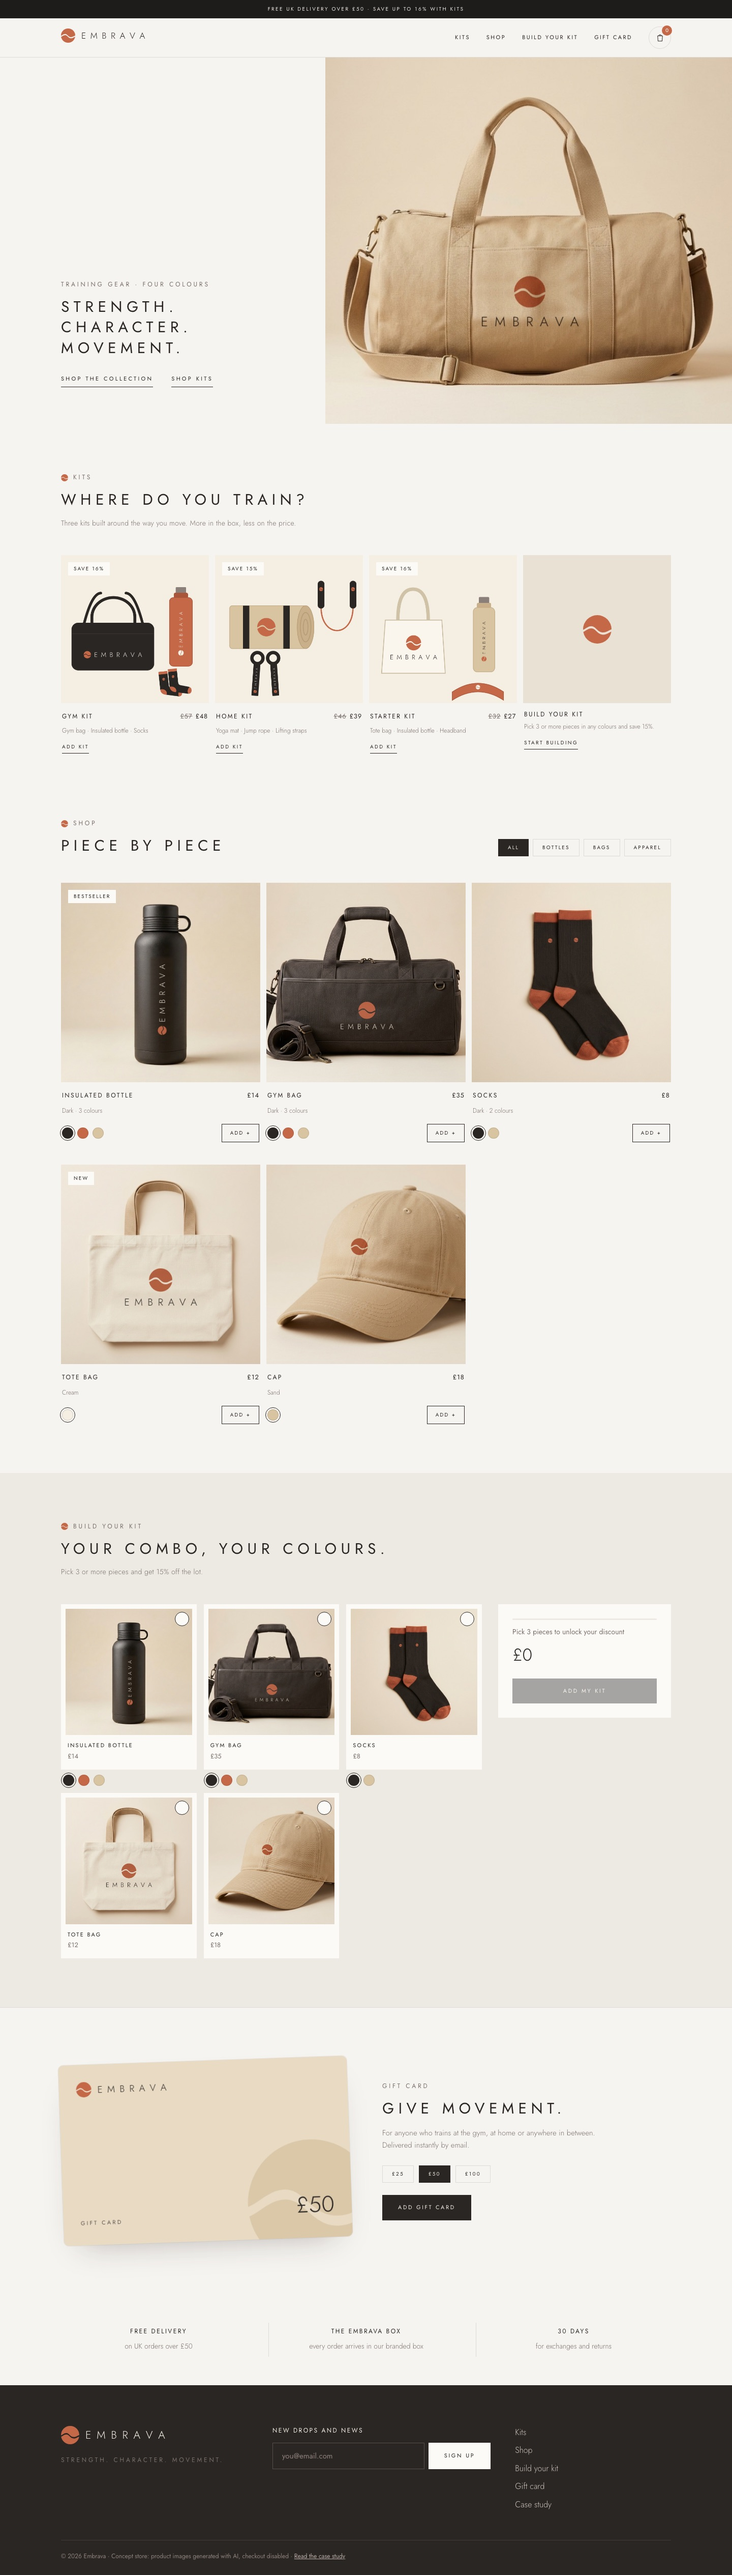
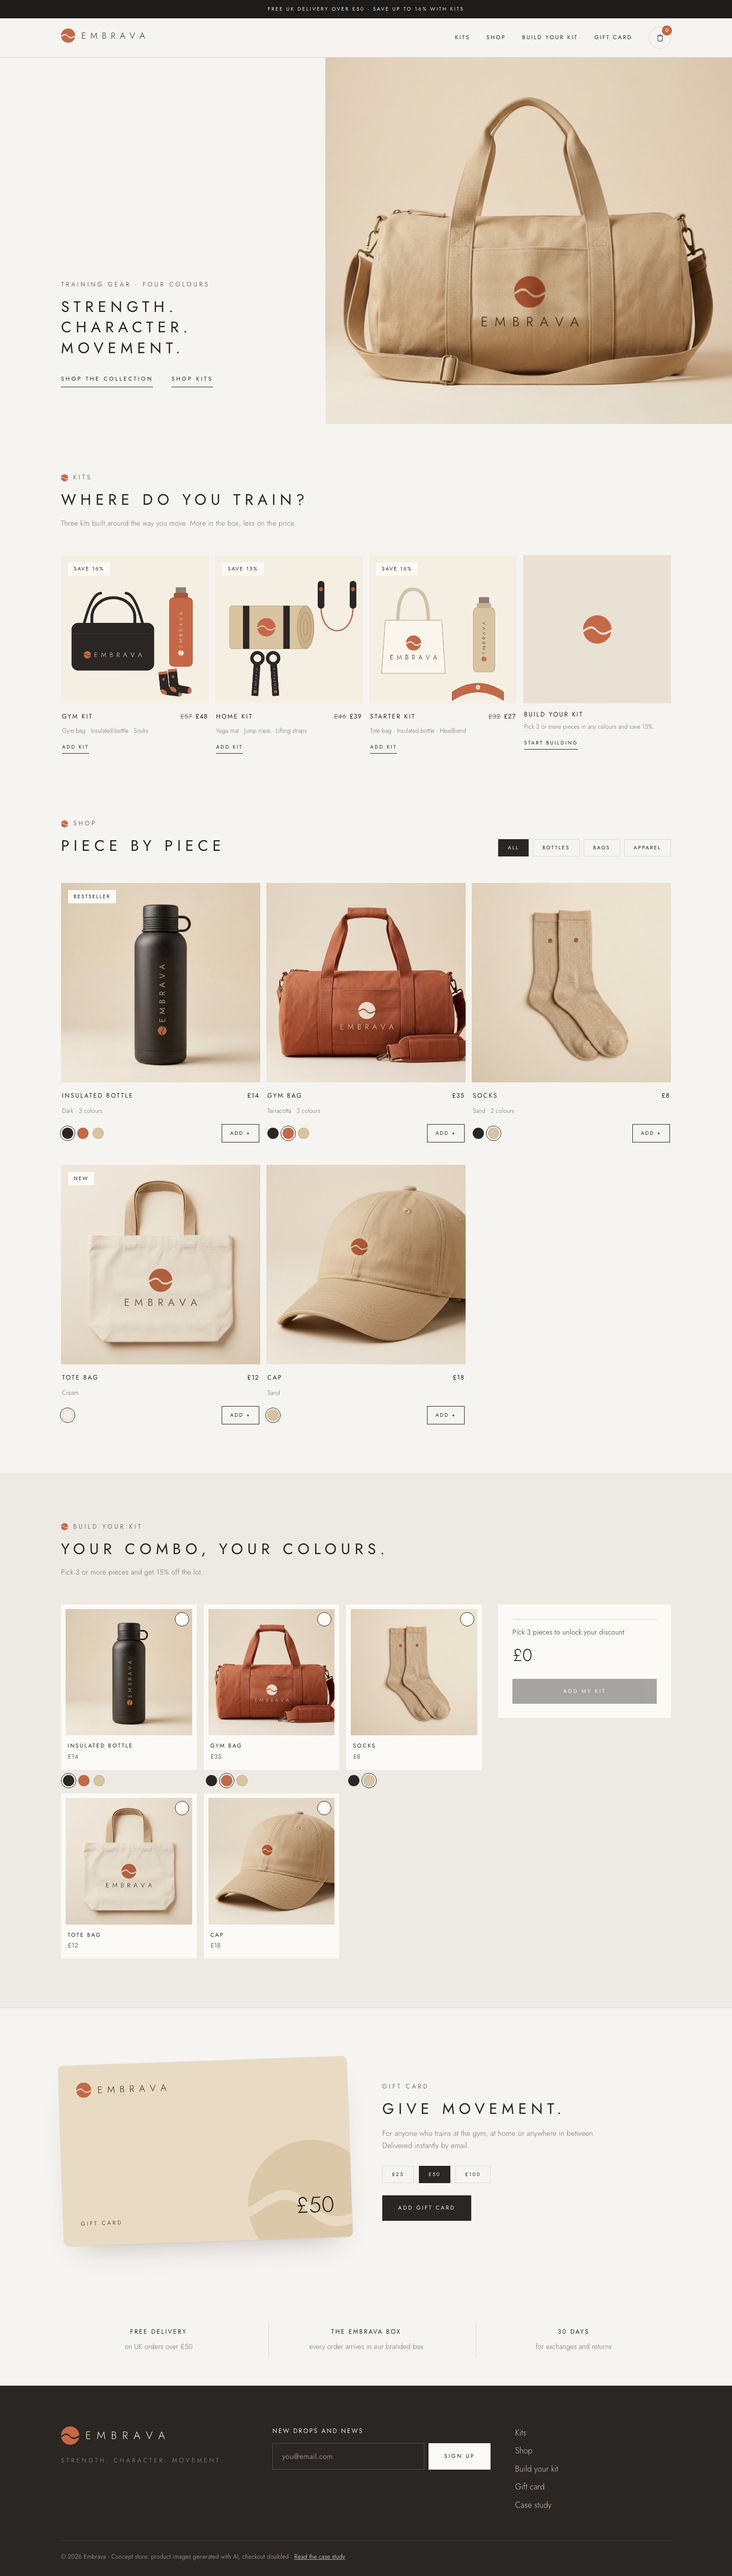
Actualiza las capturas de Embrava con los colores por defecto nuevos

diff --git a/work/embrava.html b/work/embrava.html
@@ -67,7 +67,7 @@
           <div class="browser-url">andrea-mmo.github.io/embrava</div>
         </div>
         <div class="browser-view" tabindex="0" aria-label="Scrollable preview of the Embrava store on desktop">
-          <img src="../images/embrava-long.jpg" alt="Desktop view of the Embrava homepage: hero, kits, product grid, build your kit, gift card and footer" width="1440" height="5061">
+          <img src="../images/embrava-long.jpg" alt="Desktop view of the Embrava homepage: hero, kits, product grid, build your kit, gift card and footer" width="1440" height="5062">
         </div>
         <figcaption>Desktop. Scroll inside the frame to see the full homepage.</figcaption>
       </figure>
